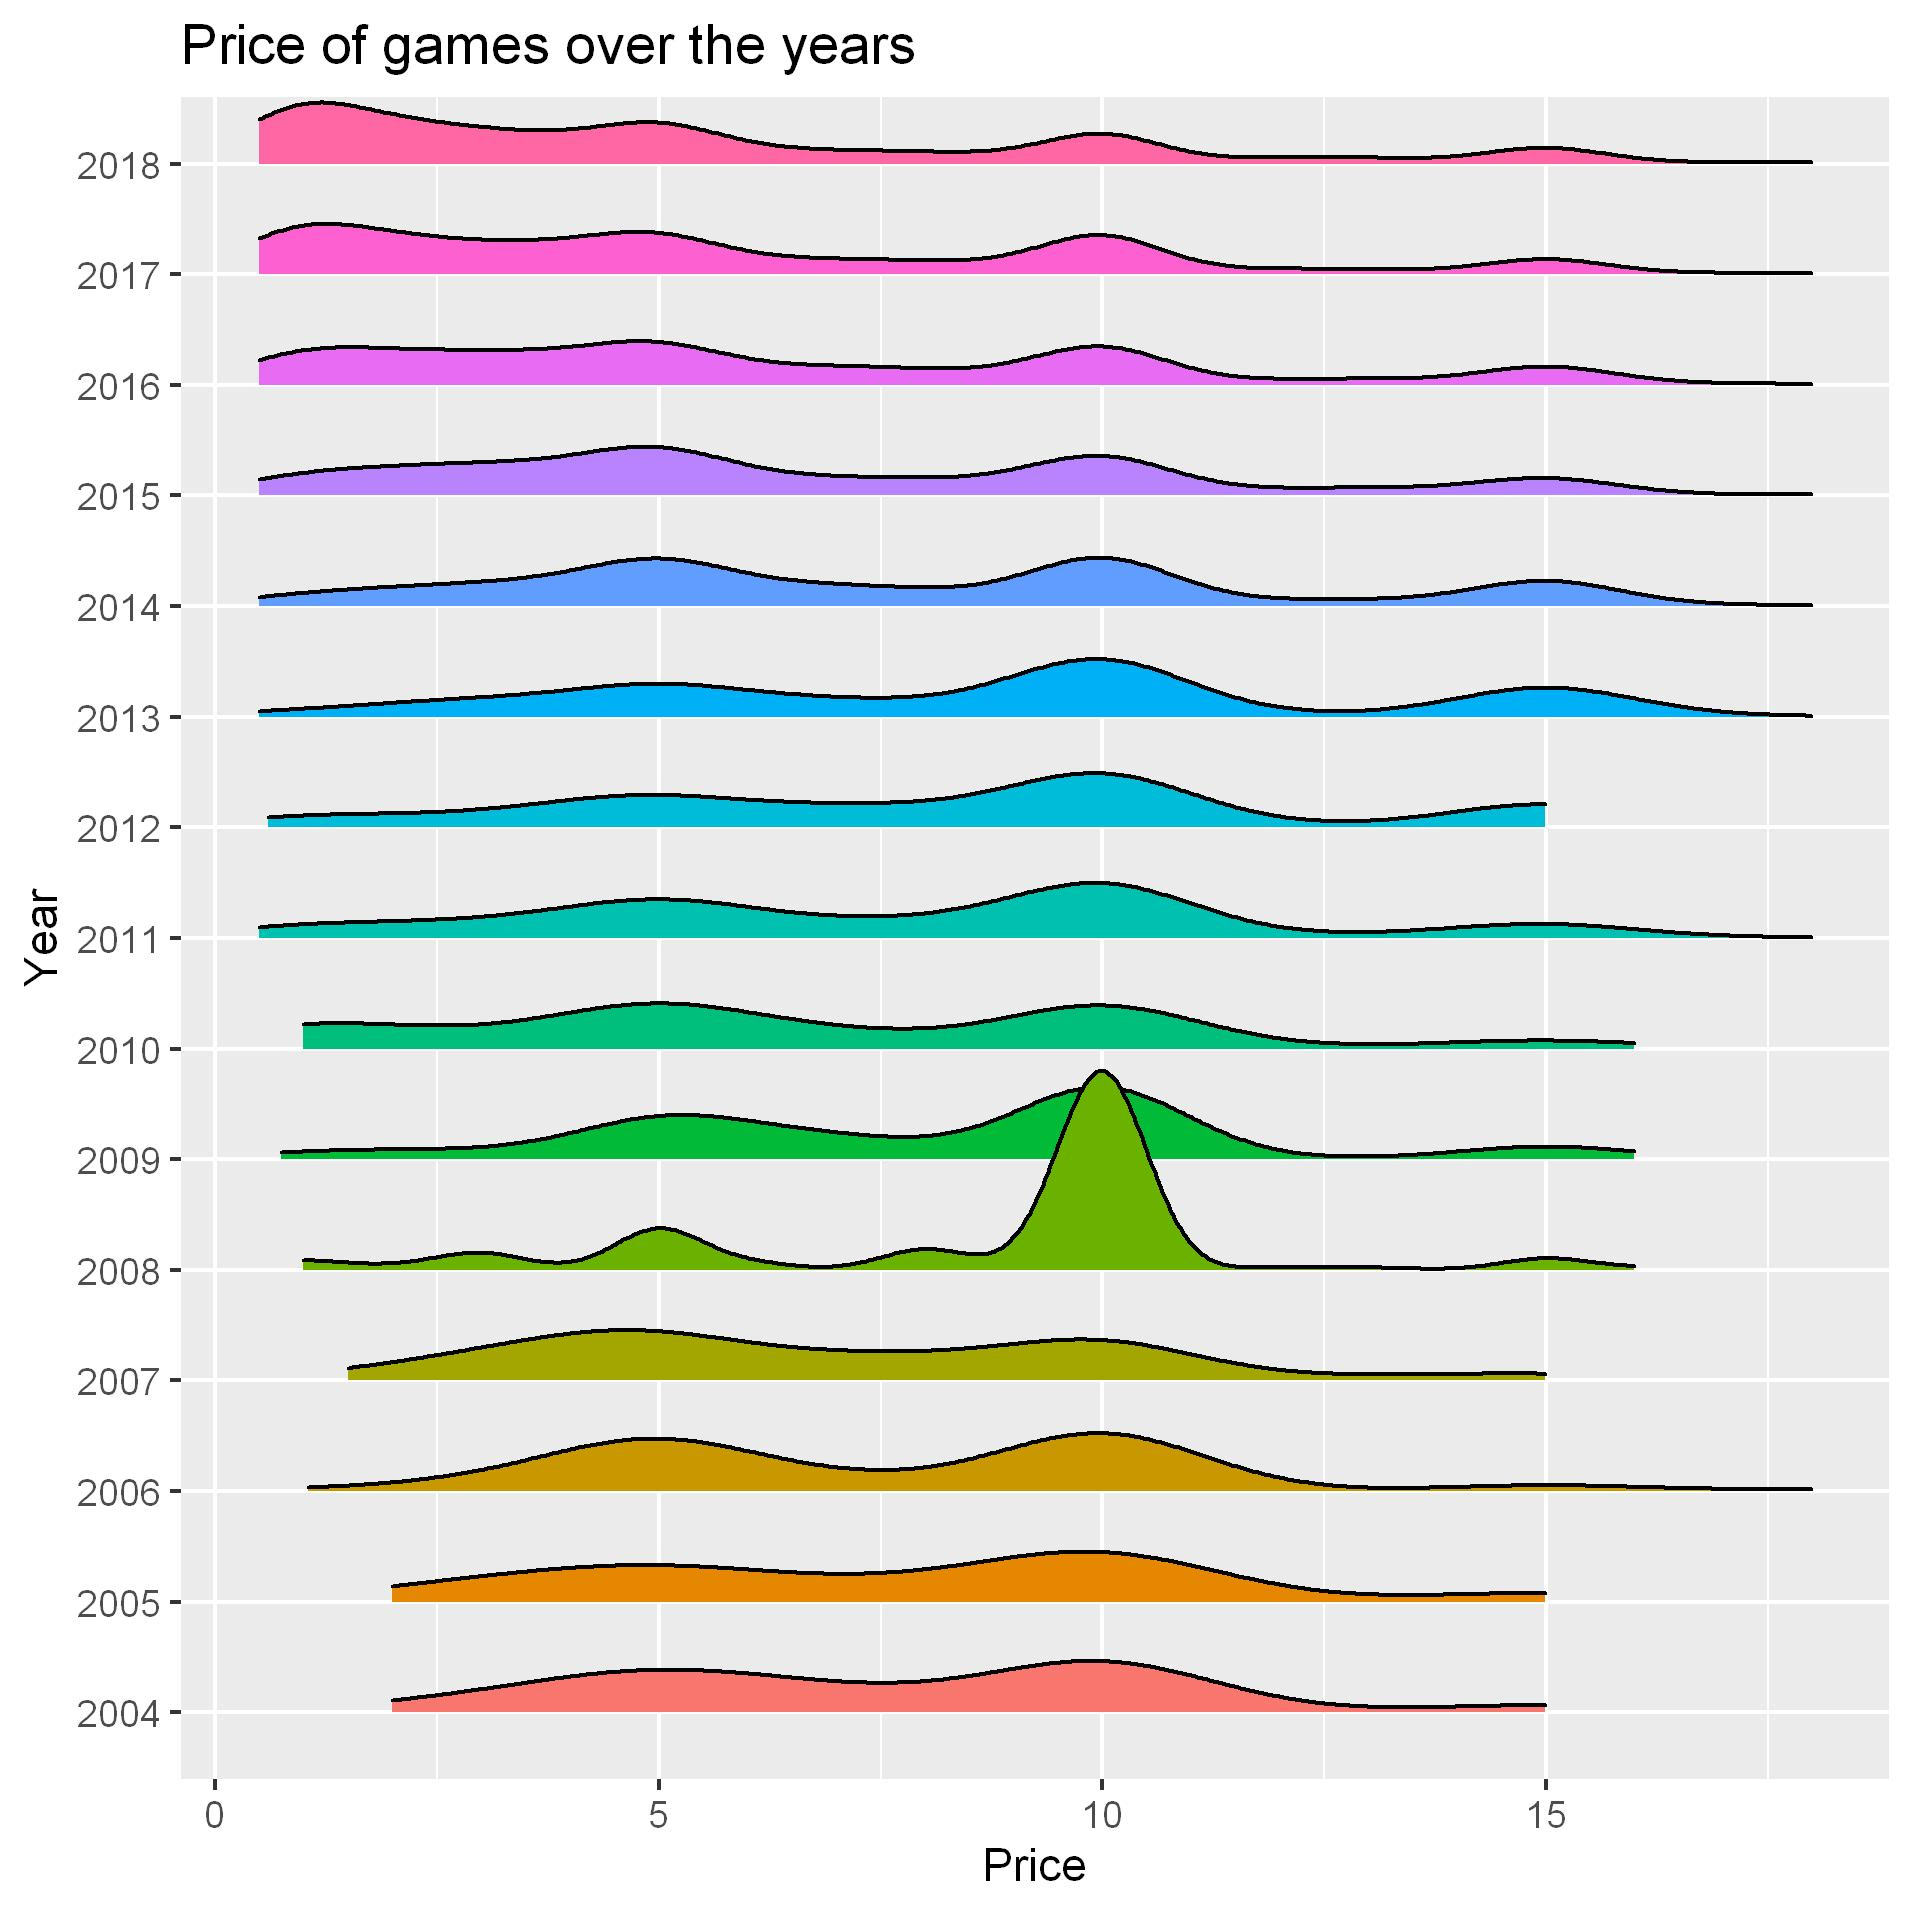
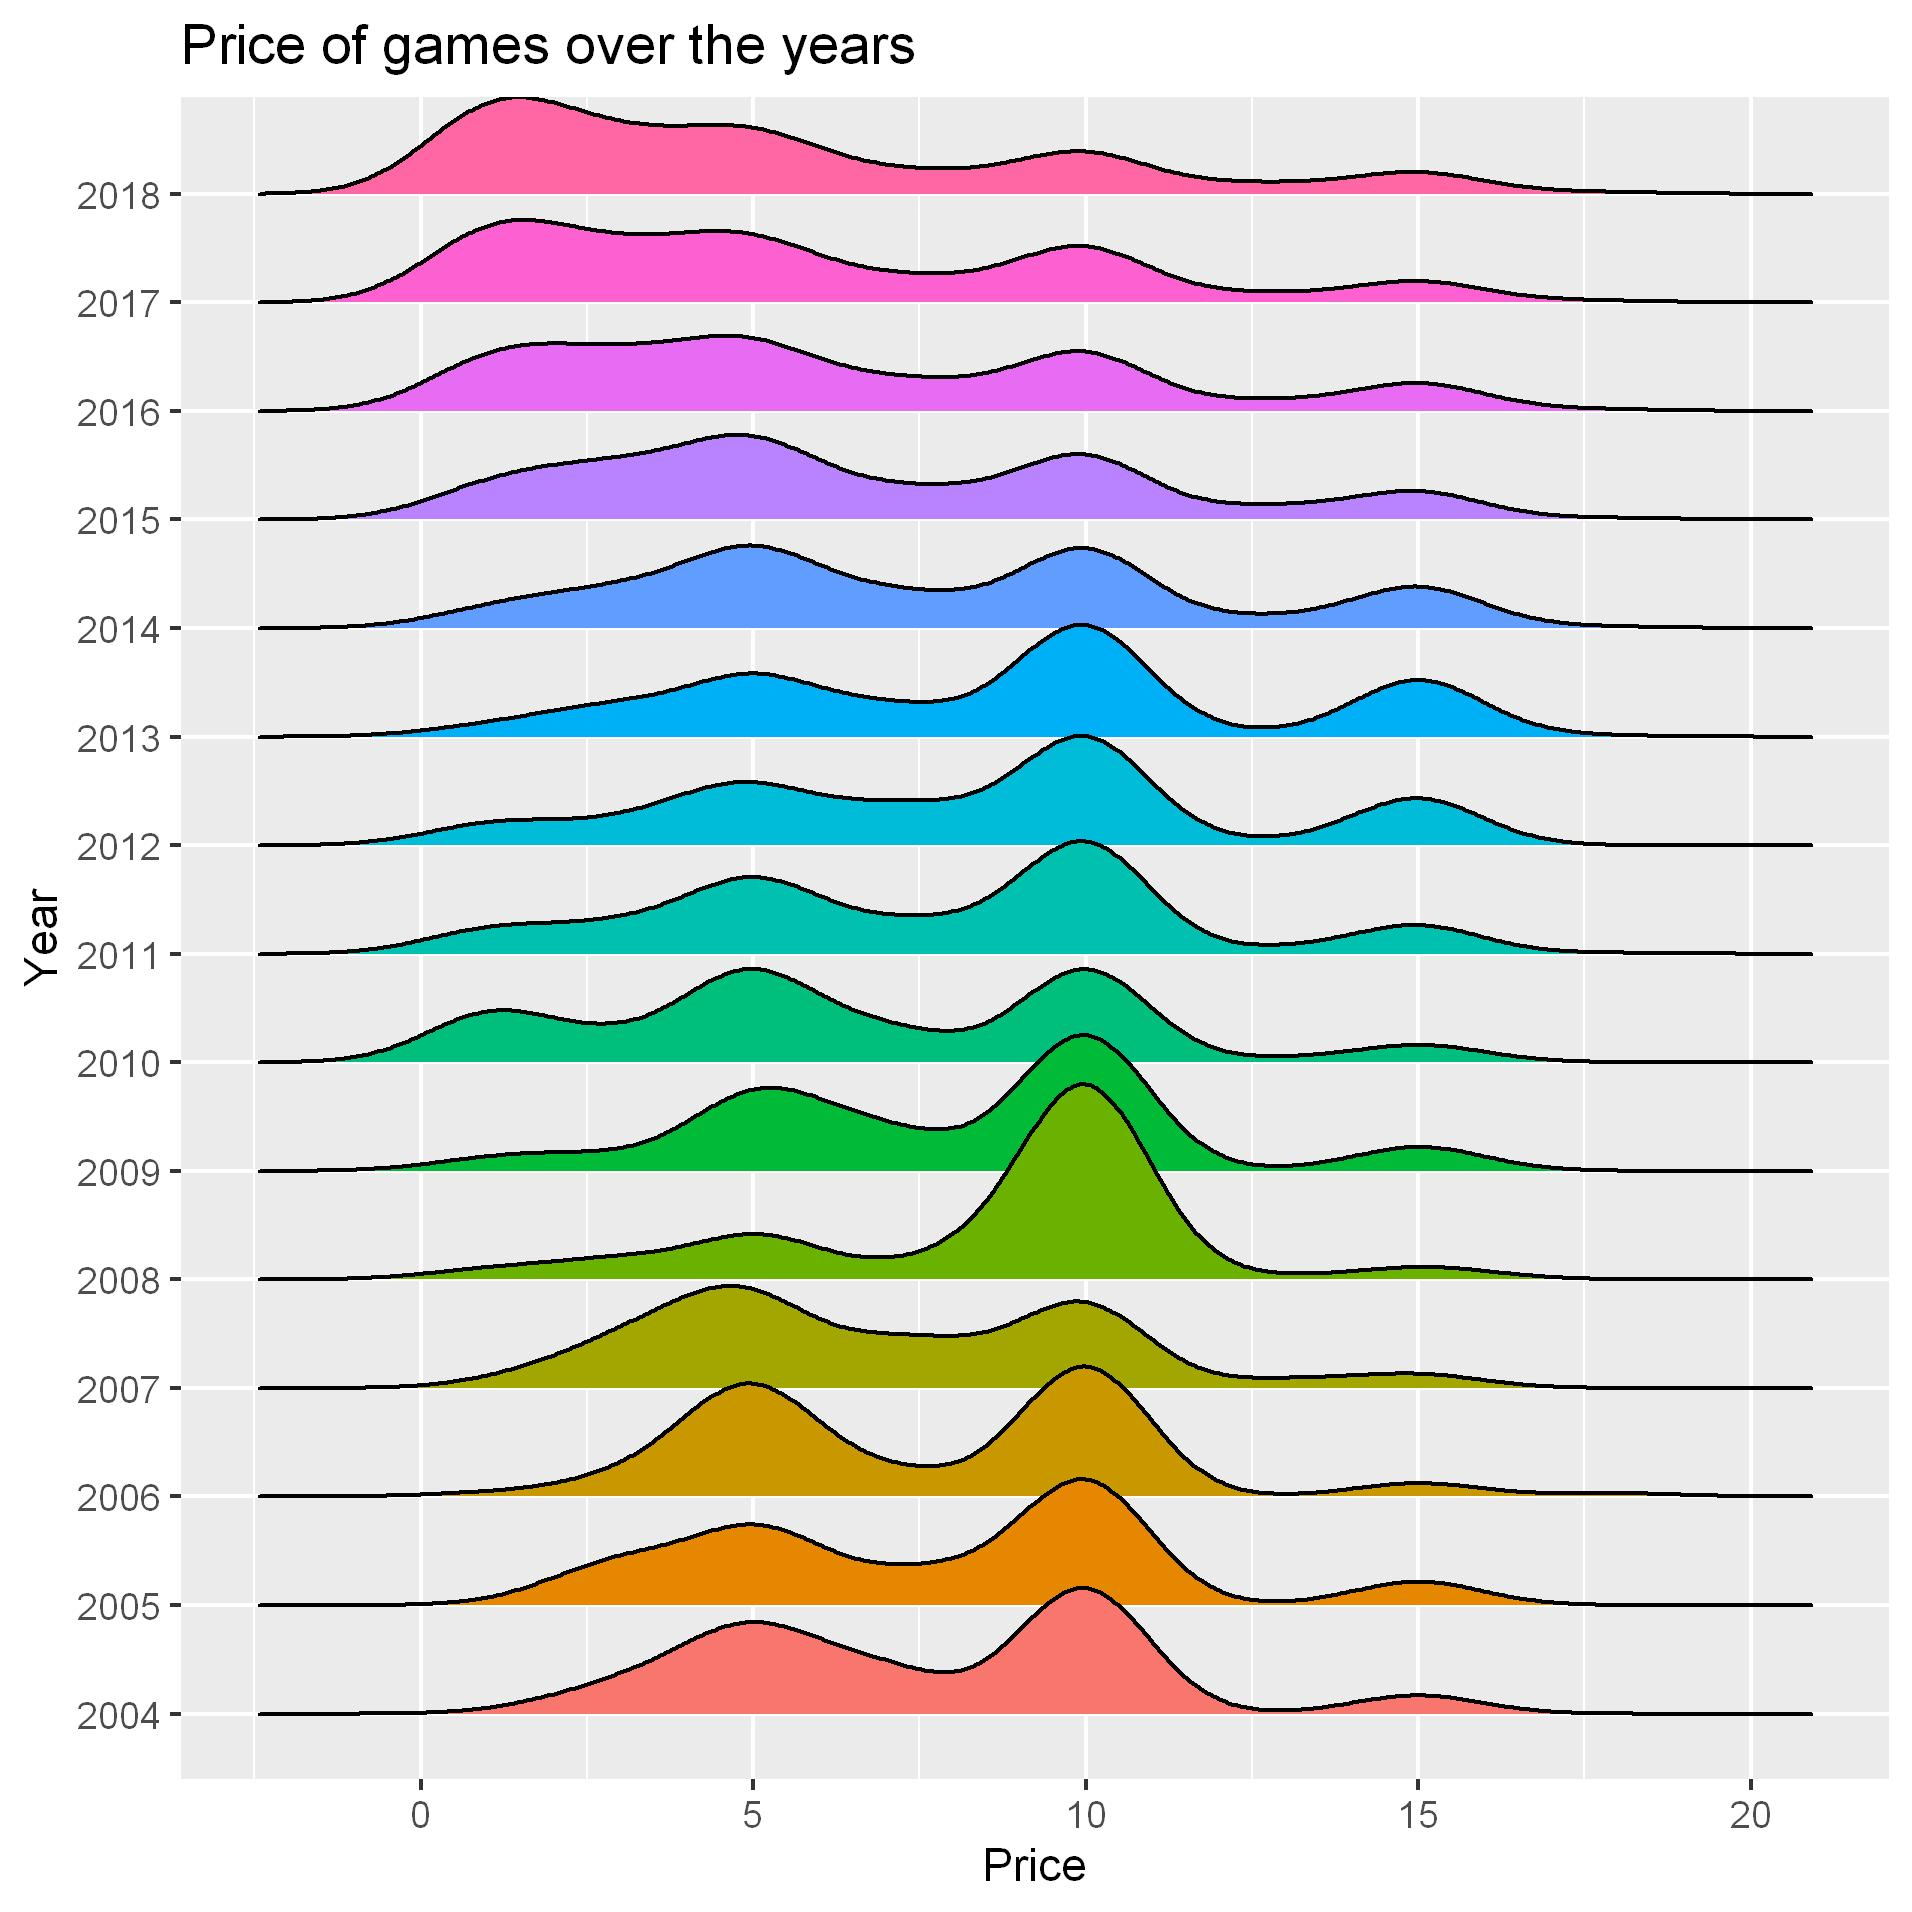
refreshed the repo

diff --git a/week31_video_games/Readme.md b/week31_video_games/Readme.md
@@ -1,0 +1,11 @@
+
+# Video games
+
+Week 31 of tidy tuesday was about video games. The data can be found [here](https://github.com/rfordatascience/tidytuesday/blob/master/README.md).
+
+In this analysis, I look if the game prices have increased or decreased over the years.
+
+Following is the plot:
+![](plots/price_year.jpeg)
+
+The density plots seem to shift towards left over the years.

diff --git a/week34_nuclear_explosions/Readme.md b/week34_nuclear_explosions/Readme.md
@@ -1,0 +1,9 @@
+# Nuclear Explosions
+
+Week 34 of Tidy Tuesday had the data of nuclear explosions. The data can be found [here](https://github.com/rfordatascience/tidytuesday/blob/master/README.md).
+
+The number of explosions saw a spike around 1960
+![](bombs_with_year.jpeg)
+
+The following animated gif plot shows the detonating locations over the years.
+![](animation.gif)
